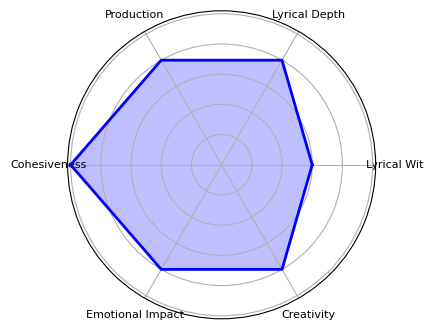
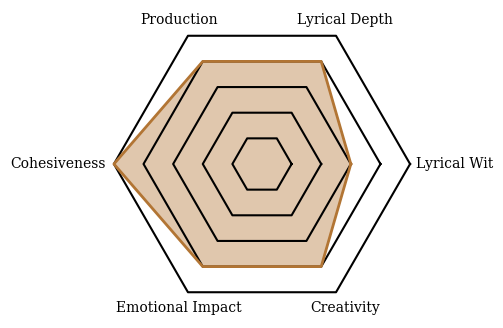
radar plots made, working on adding them to site

diff --git a/script_at.js b/script_at.js
@@ -50,7 +50,12 @@ document.addEventListener("DOMContentLoaded", function () {
                 // Toggle radar panel on tab click
                 radarTab.addEventListener("click", function (event) {
                     event.stopPropagation(); // Prevent flipping when clicking the tab
-                    radarPanel.classList.toggle("open");
+                
+                    if (!radarPanel.classList.contains("open")) {
+                        radarPanel.classList.add("open");
+                    } else {
+                        radarPanel.classList.remove("open");
+                    }
                 });
 
                 // Album text and icons
@@ -71,16 +76,36 @@ document.addEventListener("DOMContentLoaded", function () {
 
                 // Append elements
                 back.appendChild(radarTab);
-                back.appendChild(radarPanel);
 
                 inner.appendChild(front);
                 inner.appendChild(back);
                 card.appendChild(inner);
+                card.appendChild(radarPanel);  // ✅ Separate from album-back
 
-                // Add flip functionality
                 card.addEventListener("click", function () {
-                    card.classList.toggle("flipped");
+                    if (!card.classList.contains("flipping")) {
+                        card.classList.add("flipping");
+                
+                        setTimeout(() => {
+                            card.classList.toggle("flipped");
+                            radarTab.classList.toggle("flipped");
+                        }, 10); // Small delay before flipping starts
+                
+                        setTimeout(() => {
+                            card.classList.remove("flipping"); // Remove class after animation ends
+                            radarPanel.style.opacity = "1"; // Show radar panel after animation
+                        }, 600); // Adjust this time to match CSS flip animation duration
+                
+                        // Hide radar panel while flipping
+                        radarPanel.style.opacity = "0";
+                    }
                 });
+
+                // // Add flip functionality
+                // card.addEventListener("click", function () {
+                //     card.classList.toggle("flipped");
+                //     radarTab.classList.toggle("flipped");
+                // });
 
                 container.appendChild(card);
             });

diff --git a/styles_at.css b/styles_at.css
@@ -25,6 +25,8 @@ body {
     position: relative;
     transform-style: preserve-3d;
     transition: transform 0.6s;
+    background-color: #222;
+    display: flex;  /* Ensures both front & back align */
 }
 
 .album-card.flipped .album-inner {
@@ -68,44 +70,64 @@ body {
 }
 
 /* === Radar Plot Popout === */
+
+/* The radar tab is inside the drawer, so it moves with it */
 .radar-tab {
     position: absolute;
-    right: -30px; /* Starts outside the album */
+    right: -20px; /* Aligns with the edge of the radar panel */
     top: 50%;
-    transform: translateY(-50%);
+    transform: translateY(-50%) rotate(180deg);
     background: #444;
     color: white;
     padding: 5px;
     font-size: 12px;
     cursor: pointer;
-    writing-mode: vertical-rl; /* Makes text vertical */
+    writing-mode: vertical-rl;
     border-radius: 5px 0 0 5px;
+    transition: transform 0.3s ease-in-out, right 0.3s ease-in-out;
+    z-index: -1;
 }
 
 .radar-panel {
     position: absolute;
-    right: -120px; /* Hidden by default */
-    top: 50%;
-    width: 120px;
-    height: 25%;
+    left: 0%;
+    top: 7.5%;
+    width: 100%;
+    height: 100%;
     background: #333;
     display: flex;
     align-items: center;
     justify-content: center;
-    transform: translateX(0);
-    transition: transform 0.3s ease-in-out;
+    opacity: 0; /* Fully hidden at start */
+    transition: transform 0.3s ease-in-out, opacity 0.3s ease-in-out;
+    z-index: -1; /* Behind album */
+    border-radius: 10px;
+    pointer-events: none;
+
 }
 
+/* Hide radar panel while flipping */
+.album-card.flipping .radar-panel {
+    opacity: 0 !important;
+    pointer-events: none;
+}
+
+/* The radar plot image inside the drawer */
 .radar-panel img {
     width: 100px;
     height: 100px;
-    display: none; /* Hidden until the tab is clicked */
+    /* display: none; Hidden until the tab is clicked */
 }
 
-.radar-panel.open {
-    transform: translateX(-120px);
+/* Moves the drawer into view when open */
+.radar-panel.open{
+    transform: translateX(125px);
+    display: flex;
+    opacity: 1;
+    /* z-index: 10; Bring in front */
 }
 
+/* Show the radar plot image when open */
 .radar-panel.open img {
     display: block;
 }

diff --git a/update-albums.py b/update-albums.py
@@ -4,13 +4,27 @@ import matplotlib.pyplot as plt
 import json
 import os
 
+from PIL import Image
+
+def get_average_color(image_path):
+    """Returns the average color of an image as an (R, G, B) tuple."""
+    try:
+        img = Image.open(image_path)
+        img = img.resize((50, 50))  # Resize to speed up processing
+        pixels = np.array(img)
+        avg_color = pixels.mean(axis=(0, 1))  # Average across width & height
+        return tuple(avg_color[:3].astype(int))  # Convert to (R, G, B)
+    except Exception as e:
+        print(f"Error processing {image_path}: {e}")
+        return (100, 100, 255)  # Default color (blue) if error occurs
+
 # Set up the radar plot categories
 CATEGORIES = ["Lyrical Wit", "Lyrical Depth", "Production", "Cohesiveness", "Emotional Impact", "Creativity"]
 
 # Ensure output folders exist
 os.makedirs("radar_plots", exist_ok=True)
 
-def generate_radar_plot(album_name, scores):
+def generate_radar_plot(album_name, scores, cover_url):
     """Creates and saves a radar plot for an album."""
     num_vars = len(CATEGORIES)
 
@@ -18,17 +32,38 @@ def generate_radar_plot(album_name, scores):
     angles = np.linspace(0, 2 * np.pi, num_vars, endpoint=False).tolist()
     scores += scores[:1]  # Close the radar shape
     angles += angles[:1]  # Close the radar shape
+    
+    avg_color = get_average_color(cover_url)
+    fill_color = (avg_color[0] / 255, avg_color[1] / 255, avg_color[2] / 255, 0.4)  # RGBA with transparency
+    line_color = (avg_color[0] / 255, avg_color[1] / 255, avg_color[2] / 255, 1)  # Full opacity for lines
 
     # Create figure
     fig, ax = plt.subplots(figsize=(4, 4), subplot_kw=dict(polar=True))
-    ax.fill(angles, scores, color='blue', alpha=0.25)
-    ax.plot(angles, scores, color='blue', linewidth=2)
+    
+    # Draw hexagonal grid manually
+    for i in np.linspace(5, 1.0, 5):  # Five grid levels
+        hexagon = [i] * num_vars + [i]  # Close the shape
+        ax.plot(angles, hexagon, linestyle="solid", color="black", alpha=1)
+        
+    ax.fill(angles, scores, color=fill_color)  # Fill with transparency
+    ax.plot(angles, scores, color=line_color, linewidth=2)  # Outline
 
     # Labels
     ax.set_xticks(angles[:-1])
-    ax.set_xticklabels(CATEGORIES, fontsize=8)
+    ax.set_xticklabels(CATEGORIES, fontsize=8, fontdict={'fontsize': 10, 'fontweight': 'normal', 'family': 'serif'})
+    # Move labels outward
+    print(angles)
+    for label, angle in zip(ax.get_xticklabels(), angles[:-1]):
+        if (angle > 3 and angle < 4):
+            label.set_y(label.get_position()[1] - .2)  # Move slightly out
+        elif angle == 0:
+            label.set_y(label.get_position()[1] - .125)  # Move slightly out
+        else:
+            label.set_y(label.get_position()[1] + .05)  # Move slightly down
+
     ax.set_yticklabels([])
-    ax.grid(True)
+    ax.spines["polar"].set_visible(False)  # Remove outer circle
+    ax.grid(False)  # Remove grid lines    
 
     # Save the figure
     safe_name = album_name.replace(" ", "_").replace("/", "_")  # Ensure safe filenames
@@ -55,10 +90,10 @@ for _, row in df.iterrows():
 
     # Extract and normalize scores (0-10 scale)
     scores = [row[col] if pd.notna(row[col]) else 5 for col in CATEGORIES]
-    scores = [min(max(score, 0), 10) / 10.0 for score in scores]  # Normalize 0-10 to 0-1
+    # scores = [min(max(score, 0), 10) / 10.0 for score in scores]  # Normalize 0-10 to 0-1
     
     # Generate radar plot and store its path
-    album_info["Radar Plot"] = generate_radar_plot(row["Album Name"], scores)
+    album_info["Radar Plot"] = generate_radar_plot(row["Album Name"], scores, row["Cover URL"])
 
     albums_data.append(album_info)
 
